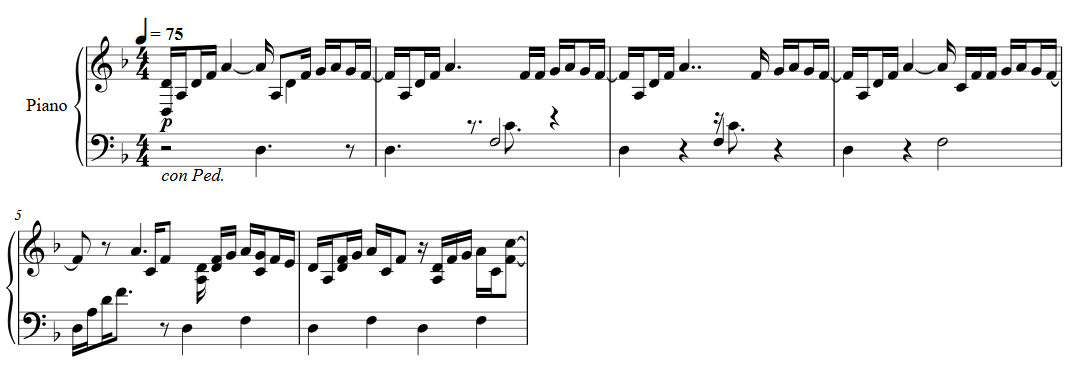
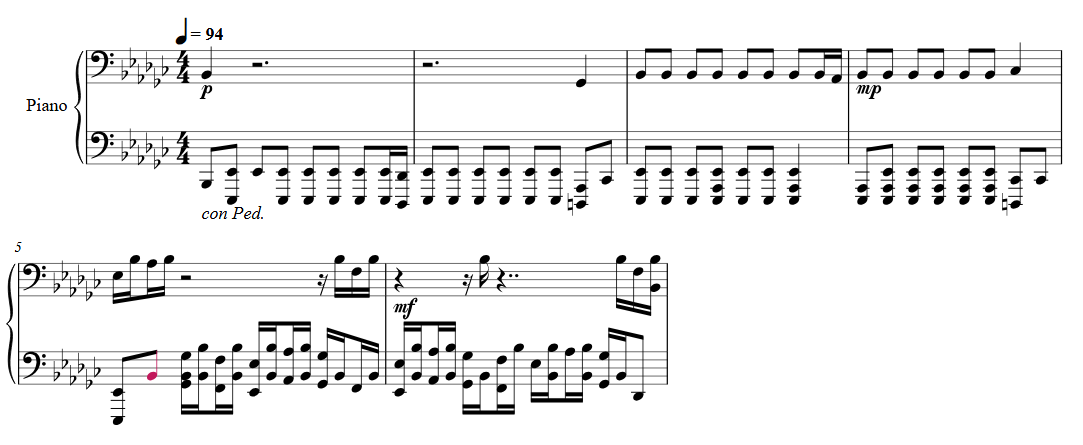
README: opening of the Bad Apple improvisation as the score example

Changed region(s): [[0.0, 0.0584, 1.0, 0.496], [0.0, 0.5544, 0.6399, 0.9629]]

diff --git a/README.md b/README.md
@@ -12,7 +12,7 @@
 
 ![Главное окно](docs/images/main.png)
 
-![Фрагмент результата](docs/images/score.png)
+![Начало импровизации на тему Bad Apple!!](docs/images/score.png)
 
 ## Возможности
 
